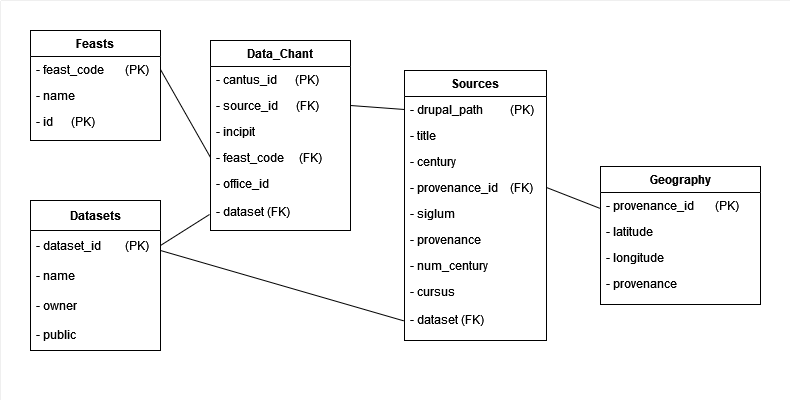
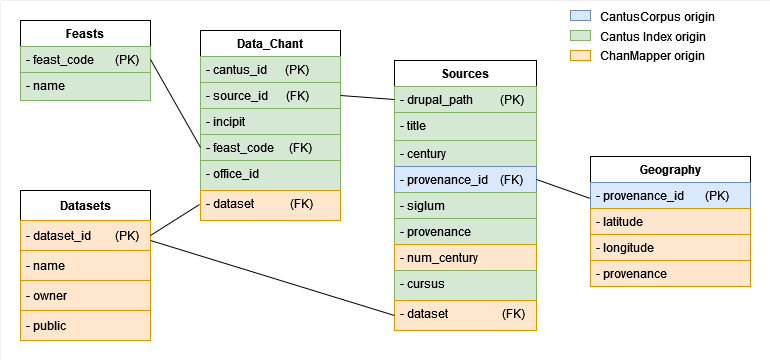
fix: solve feast_id and feast_code mess

diff --git a/thesis/app/Gregorian_chant_repertoire/Map_repertoire/forms.py b/thesis/app/Gregorian_chant_repertoire/Map_repertoire/forms.py
@@ -26,8 +26,9 @@ class InputForm(forms.Form):
         self.fields['datasets_public'].choices = [(f[0], f[1]+" (owner: "+f[2]+")") for f in list(Datasets.objects.filter(~Q(owner=user) & Q(public=True)).values_list('dataset_id', 'name', 'owner'))]
 
 
+    number_of_feasts = len(Feasts.objects.all().values_list('name', flat=True))
     feast = forms.MultipleChoiceField(widget=forms.SelectMultiple(attrs={'class': 'feasts_select', 'style': 'width: 100%;'}), 
-                                    choices=[(None, '---'), (ALL_CHOICE, 'All')]+[(f[0], f[1]) for f in zip([i for i in range(1, len(Feasts.objects.all())+1)], Feasts.objects.values_list('name', flat=True))],)
+                                    choices=[(None, '---'), (ALL_CHOICE, 'All')]+[(f[0], f[1]) for f in zip([i for i in range(1, number_of_feasts+1)], Feasts.objects.values_list('name', flat=True))],)
     all = forms.MultipleChoiceField(widget=forms.CheckboxSelectMultiple, choices={"All": "All"}, required=False, initial=True)
     office = forms.MultipleChoiceField(widget=forms.CheckboxSelectMultiple, choices=OFFICE_CHOICES, required=False)
     

diff --git a/thesis/app/Gregorian_chant_repertoire/Map_repertoire/models.py b/thesis/app/Gregorian_chant_repertoire/Map_repertoire/models.py
@@ -46,8 +46,7 @@ class Feasts(models.Model):
     """
     Table for data about all feasts that can possibly be searched
     """
-    feast_id = models.CharField(("feast_id"), max_length=20, primary_key=True) 
-    feast_code = models.CharField(("feast_code"), max_length=20) #PK
+    feast_code = models.CharField(("feast_code"), max_length=20, default='unknown') #PK
     name = models.CharField(("name"), max_length=500)
 
 

diff --git a/thesis/app/Gregorian_chant_repertoire/scripts/load_csv.py b/thesis/app/Gregorian_chant_repertoire/scripts/load_csv.py
@@ -119,7 +119,6 @@ def run():
     row_iter = feasts_without_fragments.iterrows()
     objs = [
         Feasts(
-            feast_id=row['id'],
             feast_code=row['feast_code'],
             name=row['name']
         )

diff --git a/thesis/app/documentation/ChantMapper_develop_doc.md b/thesis/app/documentation/ChantMapper_develop_doc.md
@@ -1,6 +1,6 @@
 ## ChantMapper development documentation
 
-This project is a web application for musicologists - gregorianists developed using the Django framework. The installation process for local use is outlined in the file `installation_instructions.md` otherwise it can be reached at https://mrogc.dev.ovalek.cz. 
+This project is a web application for musicologists - gregorianists developed using the Django framework. The installation process for local use is outlined in the file `installation_instructions.md` otherwise it can be reached at https://dominant-highly-bluejay.ngrok-free.app/map_repertoire/. 
 
 The software can be divided into two fundamental units: the backend and the frontend. The specific functions and interactions of these units within the tool are illustrated in the following diagram. 
 
@@ -22,13 +22,13 @@ We have a predefined database designed for the backend. A significant drawback o
 However, since our use case is not that data flow intensive, 
 we did not find it necessary to change the default solution provided by Django.
 
-Main data source, besides data from users, are CSV data files in data directory. We distinguish between given (original CSV files from DACT scrape of Cantus Index) and generated files (derived from given files to make database load easier via scripts\new_csv.py script). From them we take specific columns to fill in app database as shown in following database schema. 
+Main data source, besides data from users, are CSV data files in data directory. We distinguish between given (original CSV files from DACT scrape of Cantus Index) and generated files (derived from given files to make database load easier via `scripts\new_csv.py` script). From them we take specific columns to fill in app database as shown in following database schema. 
 
-![app_schema](pics\db_schema.png "Schema of database")
+![db_schema](pics\db_schema.png "Schema of database")
 
 The prescriptions of the individual tables from the referenced schema are located within the models.py file. Each table is a class of the type Model and the individual columns of the table are its attributes. In addition to the individual fields and their data types, the classes also describe the behaviour to be adopted in the event of a missing value (in the case of a field that permits the input of a null value).
 
-The transfer of data from the corresponding CVS files into the database is accomplished through the execution of the scripts\load_csv.py script. This script employs the Pandas library (https://pandas.pydata.org/) to load and save the files via models into the database (db\db.sqlite3).
+The transfer of data from the corresponding CVS files into the database is accomplished through the execution of the `scripts\load_csv.py` script. This script employs the Pandas library (https://pandas.pydata.org/) to load and save the files via models into the database (`db\db.sqlite3`). We do not use all columns from source files, just those corresponding to presented schema are required.
 
 
 ### Backend
